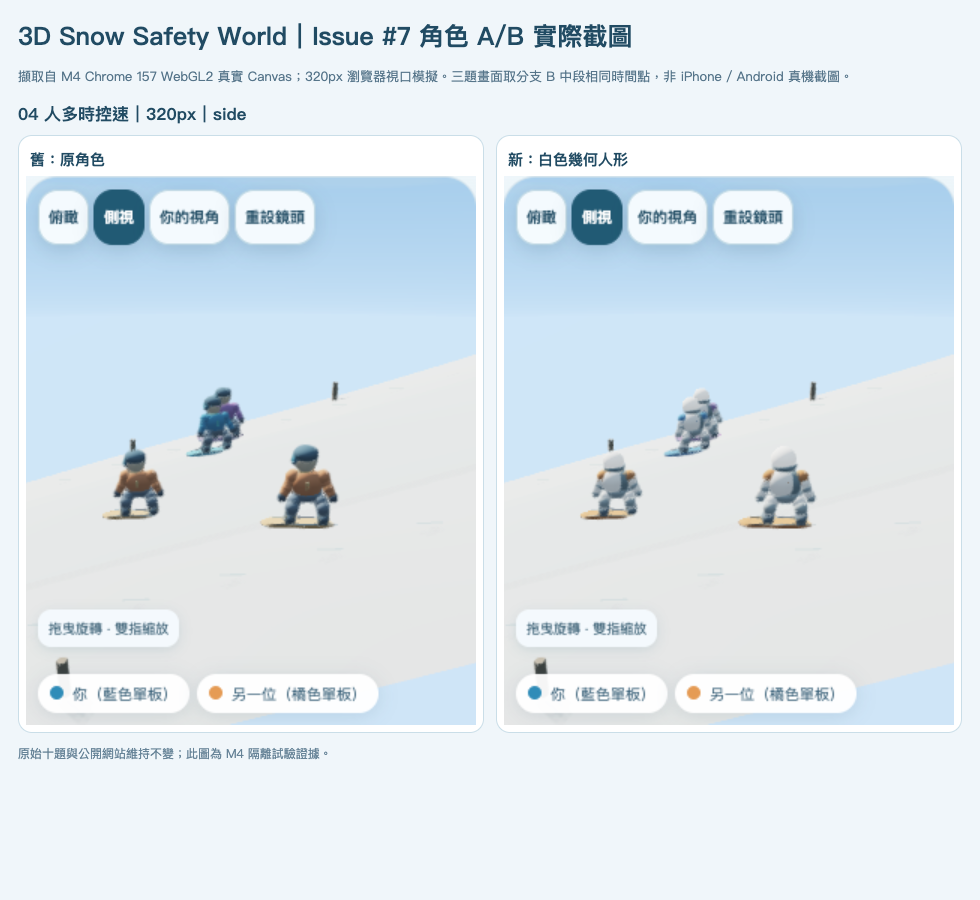
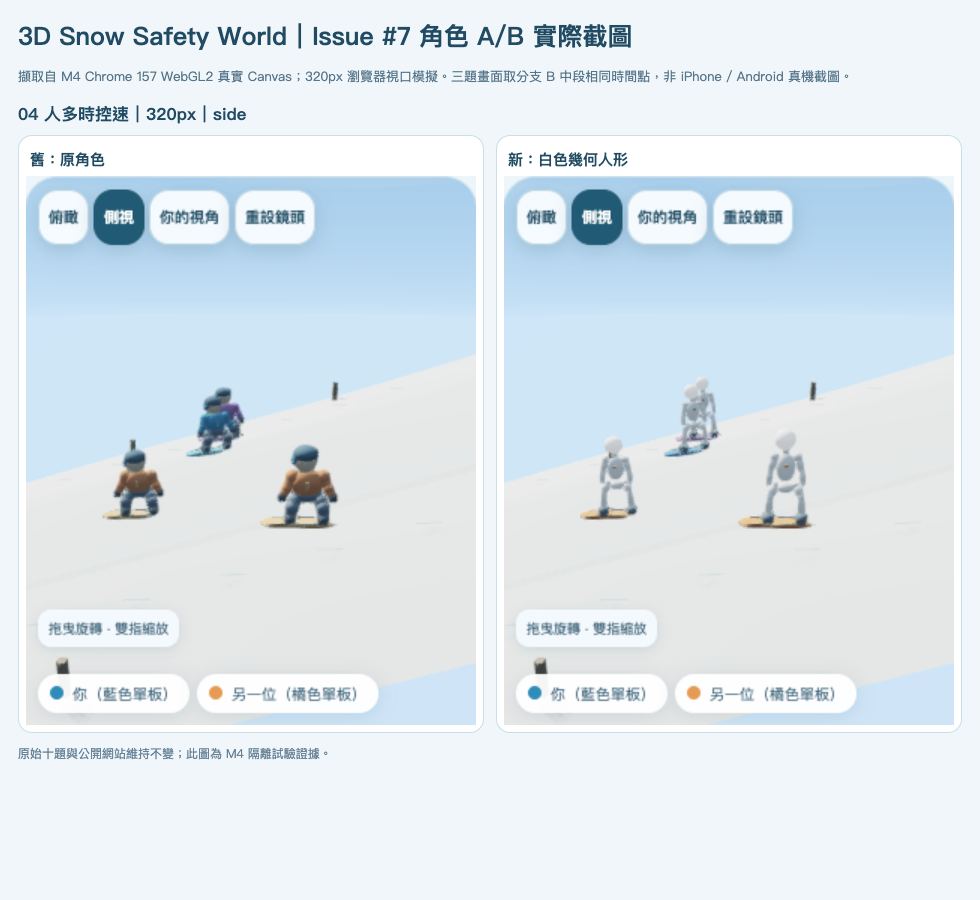
style(67js): revise geometric rider proportions toward clean stick figures (#7)

Changed region(s): [[0.7653, 0.4667, 0.8265, 0.5911], [0.6735, 0.4044, 0.7347, 0.4978], [0.5816, 0.4667, 0.6735, 0.56]]

diff --git a/experiments/67js-opt/shared/geometric-rig.js b/experiments/67js-opt/shared/geometric-rig.js
@@ -19,11 +19,14 @@ function rodMatrix(a,b,radius){
 export function createGeometricRider(id,paletteKey,geometry,discipline='snowboard'){
  if(!['snowboard','ski'].includes(discipline))throw new TypeError('Explicit discipline required');
  const {primitive,material,makePart}=geometry,accent=COLORS[paletteKey]||COLORS.blue;
- const mats={white:material(.96,.97,.99),head:material(1,1,1),rim:material(.39,.49,.55),
-  joint:material(.64,.71,.76),lightJoint:material(.84,.88,.91),
+ const mats={white:material(.82,.86,.90),head:material(1,1,1),rim:material(.39,.49,.55),
+  joint:material(.92,.94,.97),lightJoint:material(.92,.94,.97),
   boot:material(.26,.34,.42),binding:material(.29,.36,.43),
   accent:material(...accent),board:material(...accent)};
  mats.white.emission=.12;
+ // Identical limb/joint surface removes the robotic segmented-armor look.
+ mats.joint=mats.white;
+ mats.lightJoint=mats.white;
  mats.head.emission=.32;
  const defs=[],add=(name,geo,col,position=null,role='body')=>defs.push({name,geo,col,position,role});
  if(discipline==='snowboard'){
@@ -45,13 +48,13 @@ export function createGeometricRider(id,paletteKey,geometry,discipline='snowboar
   }
  }
  for(const [name,geo,col] of [
-  ['pelvis','sphere','joint'],['torso-rim','sphere','rim'],
+  ['pelvis','sphere','white'],
   ['torso','sphere','white'],['role-chest','box','accent'],
-  ['neck','sphere','joint'],['head-rim','sphere','rim'],['head','sphere','head'],
+  ['neck','sphere','white'],['head','sphere','head'],
   ['knee-a','sphere','joint'],['knee-b','sphere','joint'],
   ['thigh-a','sphere','white'],['thigh-b','sphere','white'],
   ['shin-a','sphere','white'],['shin-b','sphere','white'],
-  ['shoulder-a','sphere','accent'],['shoulder-b','sphere','accent'],
+  ['shoulder-a','sphere','white'],['shoulder-b','sphere','white'],
   ['elbow-a','sphere','joint'],['elbow-b','sphere','joint'],
   ['upper-arm-a','sphere','white'],['upper-arm-b','sphere','white'],
   ['lower-arm-a','sphere','white'],['lower-arm-b','sphere','white'],
@@ -84,30 +87,30 @@ export function poseGeometricRider(rider,pose,{mini=false,eye=false,visible=true
   const [x,y,z,sx,sy,sz]=d.position,loc=root([x,y,z]);
   rider.index[d.name].matrix=renderDeck?matrix(...loc,sx,sy,sz,yaw):hidden();
  }
- point('pelvis',[0,1.07,0],[.36,.25,.44]);
- point('torso-rim',[0,1.45,-.06],[.39,.47,.45]);
- point('torso',[.042,1.48,.07],[.40,.46,.49]);
- point('role-chest',[.382,1.50,.02],[.037,.24,.16]);
- point('neck',[0,1.87,.02],[.18,.12,.18]);
- point('head-rim',[0,2.01,.05],[.39,.16,.39]);
- point('head',[0,2.22,.08],[.39,.39,.39]);
+ // Tall graphic silhouette: distinct round head, clean torso, slim limbs.
+ // All board/contact points stay at their original authored position.
+ point('pelvis',[0,1.31,0],[.20,.16,.26]);
+ point('torso',[0,1.97,.015],[.255,.455,.30]);
+ point('role-chest',[.26,2.08,.015],[.025,.065,.12]);
+ point('neck',[0,2.48,.015],[.105,.12,.105]);
+ point('head',[0,2.84,.045],[.325,.325,.325]);
  for(const [key,sign] of [['a',-1],['b',1]]){
   const ski=rider.discipline==='ski';
   const boot=ski?[sign*.29,.46,.04]:[.10,.46,sign*.51];
-  const knee=ski?[sign*.30,.80-flex*.27,.20+flex*.35]:[.20+flex*.35,.80-flex*.30,sign*.47];
-  const thigh=ski?[sign*.19,1.08,.02]:[-.015,1.08,sign*.34];
-  const shoulder=ski?[sign*.40,1.65,0]:[0,1.65,sign*.47];
-  const elbow=ski?[sign*(.53+Math.abs(sway)),1.30,.09]:[.09+sway,1.32,sign*.63];
-  const hand=ski?[sign*(.61+Math.abs(sway)),1.03,.16]:[.13+sway*1.5,1.04,sign*.77];
-  point('hip-'+key,thigh,[.175,.18,.18]);
-  point('knee-'+key,knee,[.214,.216,.211]);
-  bone('thigh-'+key,knee,thigh,.207);
-  bone('shin-'+key,boot,knee,.185);
-  point('shoulder-'+key,shoulder,[.22,.23,.23]);
-  point('elbow-'+key,elbow,[.165,.16,.165]);
-  bone('upper-arm-'+key,shoulder,elbow,.19);
-  bone('lower-arm-'+key,elbow,hand,.16);
-  point('hand-'+key,hand,[.15,.15,.15]);
+  const knee=ski?[sign*.30,1.12-flex*.20,.19+flex*.25]:[.13+flex*.22,1.12-flex*.20,sign*.47];
+  const thigh=ski?[sign*.14,1.39,.02]:[-.015,1.39,sign*.32];
+  const shoulder=ski?[sign*.32,2.29,0]:[0,2.29,sign*.345];
+  const elbow=ski?[sign*(.42+Math.abs(sway)),1.83,.11]:[.07+sway,1.84,sign*.48];
+  const hand=ski?[sign*(.51+Math.abs(sway)),1.51,.13]:[.10+sway*1.3,1.50,sign*.51];
+  point('hip-'+key,thigh,[.09,.095,.095]);
+  point('knee-'+key,knee,[.096,.096,.096]);
+  bone('thigh-'+key,knee,thigh,.14);
+  bone('shin-'+key,boot,knee,.12);
+  point('shoulder-'+key,shoulder,[.135,.135,.135]);
+  point('elbow-'+key,elbow,[.087,.087,.087]);
+  bone('upper-arm-'+key,shoulder,elbow,.12);
+  bone('lower-arm-'+key,elbow,hand,.11);
+  point('hand-'+key,hand,[.092,.092,.092]);
  }
 }
 /** Composite factory: originals and candidates receive identical authored poses. */

diff --git a/docs/rig-issue7-report-20261113.md b/docs/rig-issue7-report-20261113.md
@@ -1,5 +1,15 @@
 # 3D Snow Safety World | Issue #7 | Three-lesson geometry rig trial
 
+> **Owner visual feedback iteration (2026-11-13, V2):** The first
+> A/B candidate looked too short, bulky and robotic. V2 replaces the dark
+> joint/helmet styling with a taller white/pearl-gray, round-headed,
+> narrow-torso stick silhouette. The original V1 measurements below are
+> retained as historical evidence, not proof of the latest V2 performance.
+> The new 3-lesson V2 browser run and 6 unit tests passed; the separate
+> real-device and head-height/first-person viewpoint teaching check remains
+> NOT_RUN / PARTIAL. Do not merge or publish by default.
+
+
 Evidence date: 2026-11-13 (Asia/Taipei)
 Decision: GO to Owner review of the three-lesson pilot; NO-GO to automatic
 replacement of all ten lessons or production deployment.
@@ -155,3 +165,43 @@ the repository process, not by resetting another active worktree.
 
 No new lesson, change to safety causality, production deployment, automatic
 ten-lesson migration or professional certification is authorized here.
+
+
+## 2026-11-13 follow-up: stickmaxx-inspired character revision (V2)
+
+After Owner indicated the V1 figures looked too bulky, a new geometry-only
+revision was prepared in a separate M4 worktree and visually compared with V1.
+The supplied third-party image is only a visual reference: no third-party
+model, animation, textures, or copied art are included.
+
+Changes: a single featureless white spherical head (no gray helmet shell),
+longer shin/thigh/arm silhouette, narrow torso and hips, smaller rounded limb
+joints with a common pearl-gray/white surface, and unobtrusive identity colors
+on the board and a small chest mark. Snowboard feet and bindings stay at their
+original coordinates. Original timeline, decision consequences, trajectories,
+camera, WebGL2 renderer, playback and old model rollback remain unchanged.
+The two-ski geometry is still an unaccepted unit-test-only variant.
+
+- Side-by-side reference to *our* V1: `rig-issue7-evidence/rig-style-v1-v2-zoom.png`.
+- Latest V2 has 9/9 browser viewport/lesson combinations passing (320, 390,
+  1280 pixels), 73 new Chrome canvas screenshots, 135 authored-pose comparisons,
+  6/6 rig unit tests, 24/24 original site tests, and 3/3 original scene
+  screenshots with unchanged scene pixels (toolbar hover excluded).
+- V2 registered parts: lesson 04 297 (was V1 305), lesson 01 314 (was 320),
+  lesson 09 154 (was 158). 04 still exceeds published legacy 169.
+- V2 CDP experiment (three 2.3-second interleaved 390px rounds) measured
+  median main-thread busy at 14.99% published original, 14.53% V2 pilot
+  legacy view and 16.75% V2 geometric view. Too variable and brief to claim
+  speedup, GPU efficiency or statistically reliable degradation.
+- V2 round-head geometry is vertically taller than the original camera eye
+  anchor, whose old authored height remains unchanged. This intentionally
+  avoids silently altering the blind-crest causal camera but means accurate
+  first-person head-to-eye alignment is still PARTIAL and must be resolved
+  before any teaching-use adoption. Mobile physical hardware NOT_RUN.
+- Important visual limitation: compared with the reference clip, V2 retains
+  additional board equipment and necessary snowboarding bent knees, and white
+  bodies remain smaller/less contrasted in distant views. An exact likeness
+  is not claimed, nor a professional motion/learning-clarity sign-off.
+
+Disposition: proceed to Owner visual review only. No auto-merge, ten-lesson
+replacement or public deployment.
